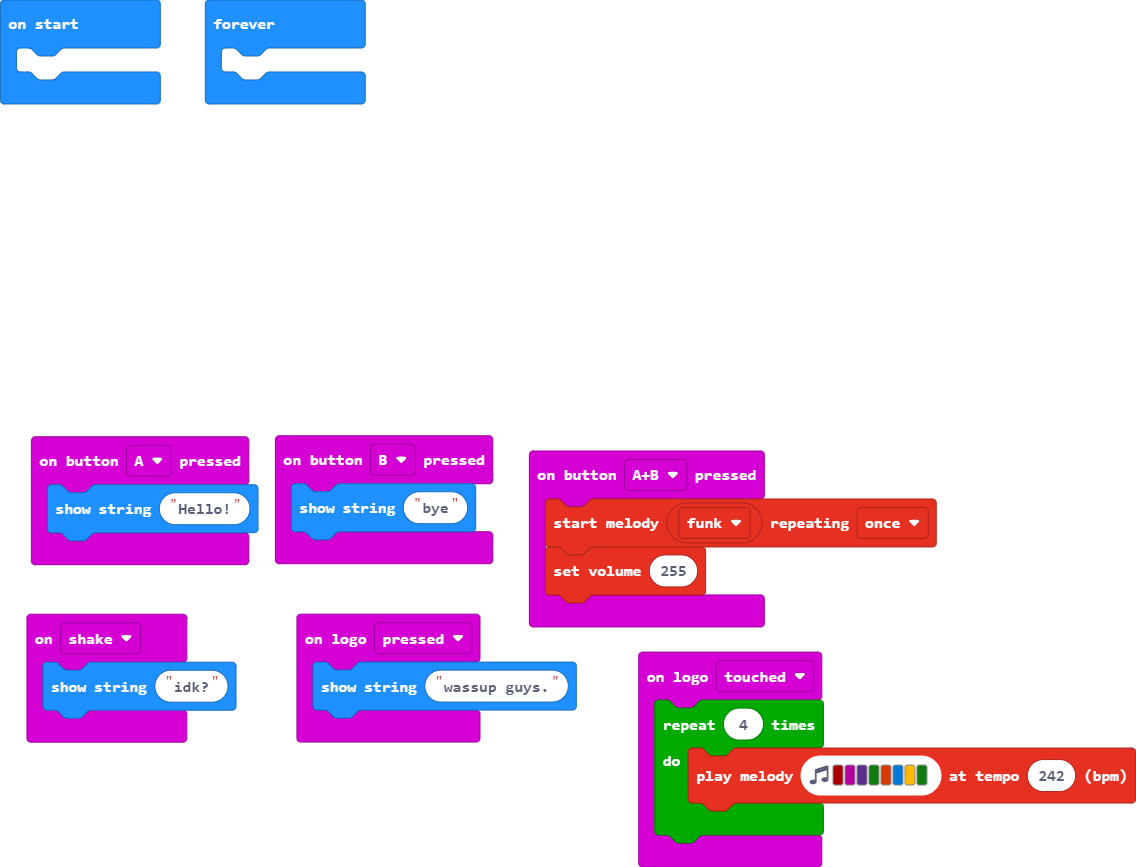
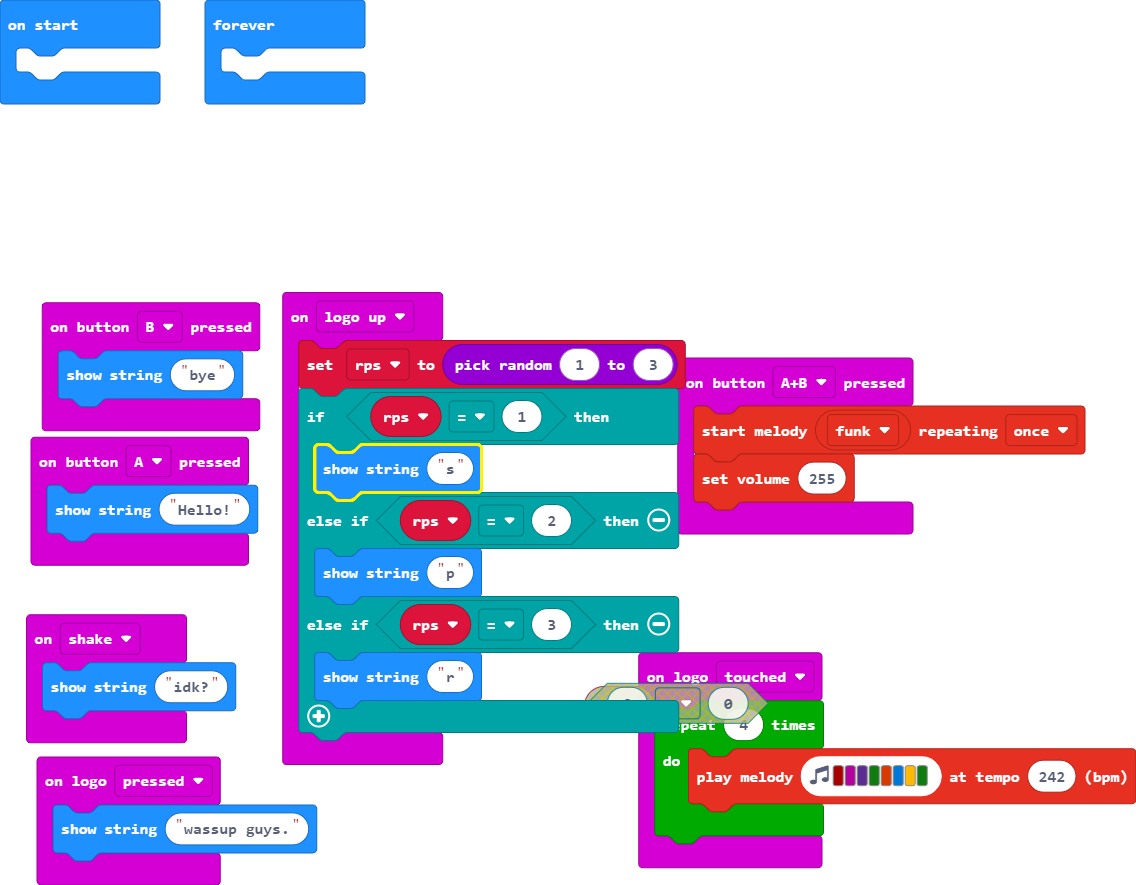
Update main.blocks, main.ts

diff --git a/main.ts b/main.ts
@@ -1,5 +1,16 @@
+let rps = 0
 input.onButtonPressed(Button.A, function () {
     basic.showString("Hello!")
+})
+input.onGesture(Gesture.LogoUp, function () {
+    rps = randint(1, 3)
+    if (rps == 1) {
+        basic.showString("s")
+    } else if (rps == 2) {
+        basic.showString("p")
+    } else if (rps == 3) {
+        basic.showString("r")
+    }
 })
 input.onButtonPressed(Button.AB, function () {
     music.startMelody(music.builtInMelody(Melodies.Funk), MelodyOptions.Once)
